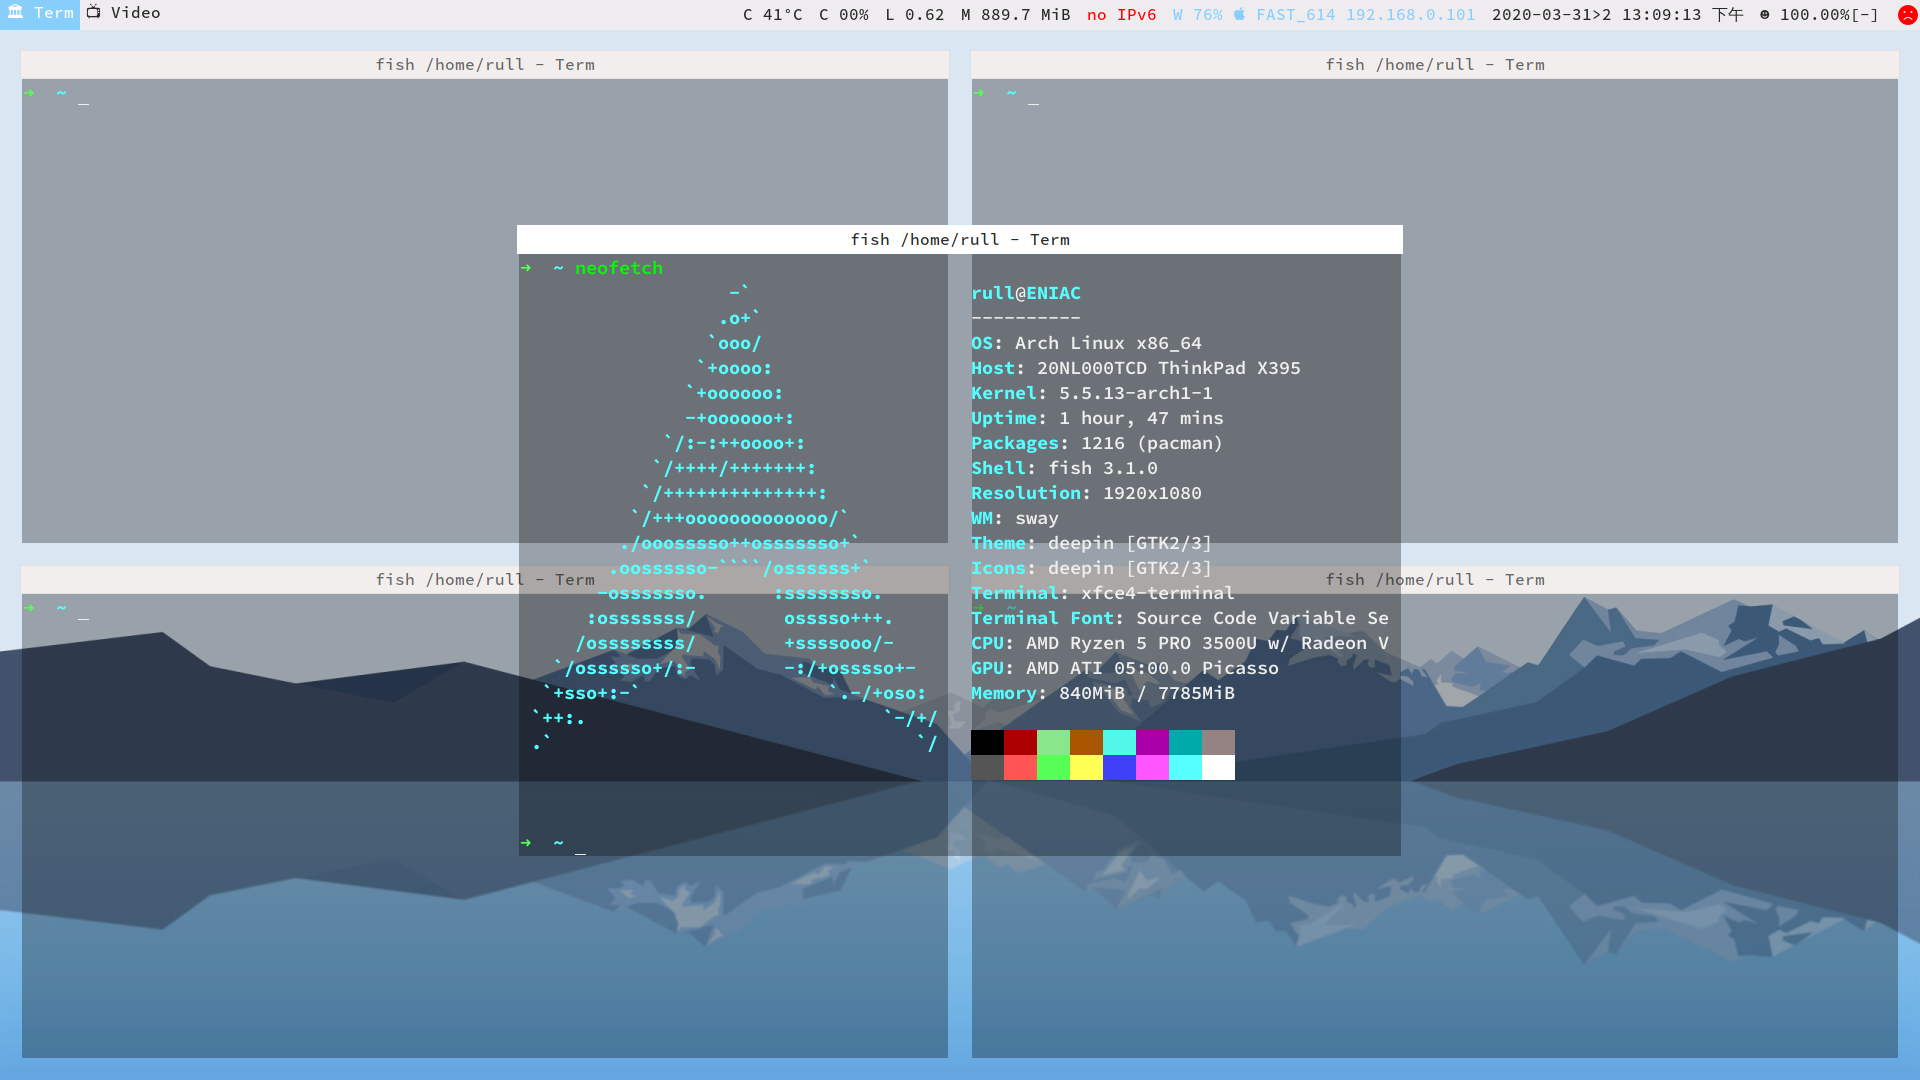
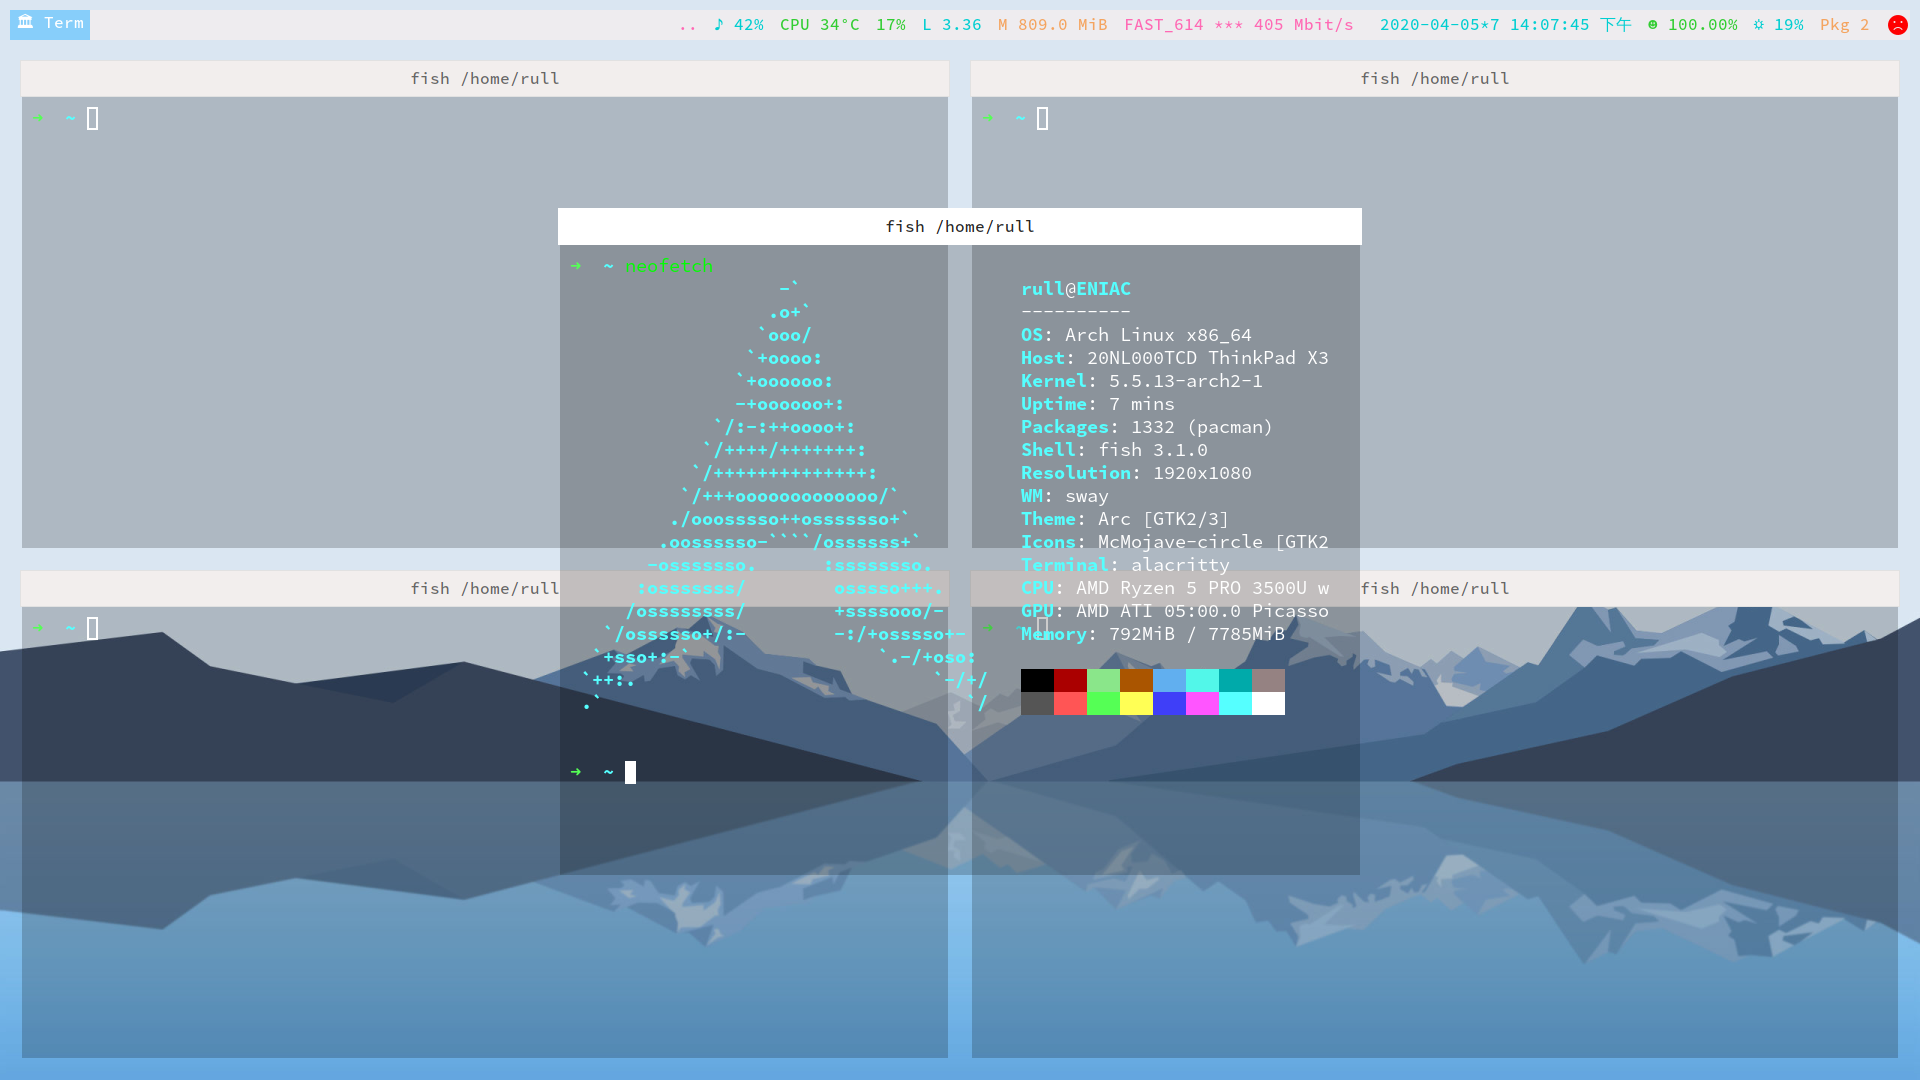
update

Changed region(s): [[0.0, 0.1833, 1.0, 0.825], [0.0, 0.0, 1.0, 0.0917], [0.375, 0.0, 1.0, 0.0306]]

diff --git a/README.md b/README.md
@@ -10,13 +10,17 @@
 |:-|:-|
 |截屏|grim|
 |锁屏|swaylock|
-|状态栏|i3status|
+|状态栏|py3status|
 |应用菜单|rofi|
 |录屏|obs|
 |终端|xfce4-terminal|
-|主题|deepin-gtk-theme|
-|图标|deepin-icon-theme|
+|终端|alacritty|
+|主题|arc-gtk-theme|
+|图标|mcmojave-circle-icon-theme-git|
 |设置主题|lxappearance|
+|屏幕亮度|python-pydus|
+|屏幕亮度|brightnessctl-logind|
+|音乐|cmus|
 
 # 下载配置
 ``` bash
@@ -82,6 +86,12 @@ git clone https://github.com/kisssum/swaywm-config.git
 |<kbd>Fn</kbd>+<kbd>F3</kbd>|加大静音|
 |<kbd>Fn</kbd>+<kbd>F4</kbd>|麦克风开关|
 
+## 屏幕亮度
+|快捷键|作用|
+|:-|:-|
+|<kbd>Fn</kbd>+<kbd>F5</kbd>|减小亮度|
+|<kbd>Fn</kbd>+<kbd>F6</kbd>|加大亮度|
+
 ## 模块
 
 ### 面板样式菜单：<kbd>Super</kbd>+<kbd>m</kbd>
@@ -124,6 +134,5 @@ git clone https://github.com/kisssum/swaywm-config.git
 |<kbd>Super</kbd>+<kbd>r</kbd>|关闭菜单|
 
 ## 效果
-![](https://note.youdao.com/yws/api/personal/file/WEB06f5a8d4e4506ecdd0ff7ccca1a2bd83?method=download&shareKey=1c4557a819c216399f108ec87a2edd56)
-![](https://note.youdao.com/yws/api/personal/file/WEBf80147a94842bed8ff513eeabbb091d2?method=download&shareKey=4fefda50b628b7be74ae27d22213ca49)
-![](https://note.youdao.com/yws/api/personal/file/WEB113f0b2ed0e2c0c3eb216b90b182429f?method=download&shareKey=7adfbb9cafa8334e5563d819f3c1a40d)
+![](https://note.youdao.com/yws/api/personal/file/WEBfa22578697e2c2893d5efd7a9c57725f?method=download&shareKey=298c2ee8e3970a0cc88c1d9c28a6e4d0)
+![](https://note.youdao.com/yws/api/personal/file/WEB6bd11e0fb3c229122d1e0fb7f642900f?method=download&shareKey=7f6feef302da35db9291a057e2283a71)
